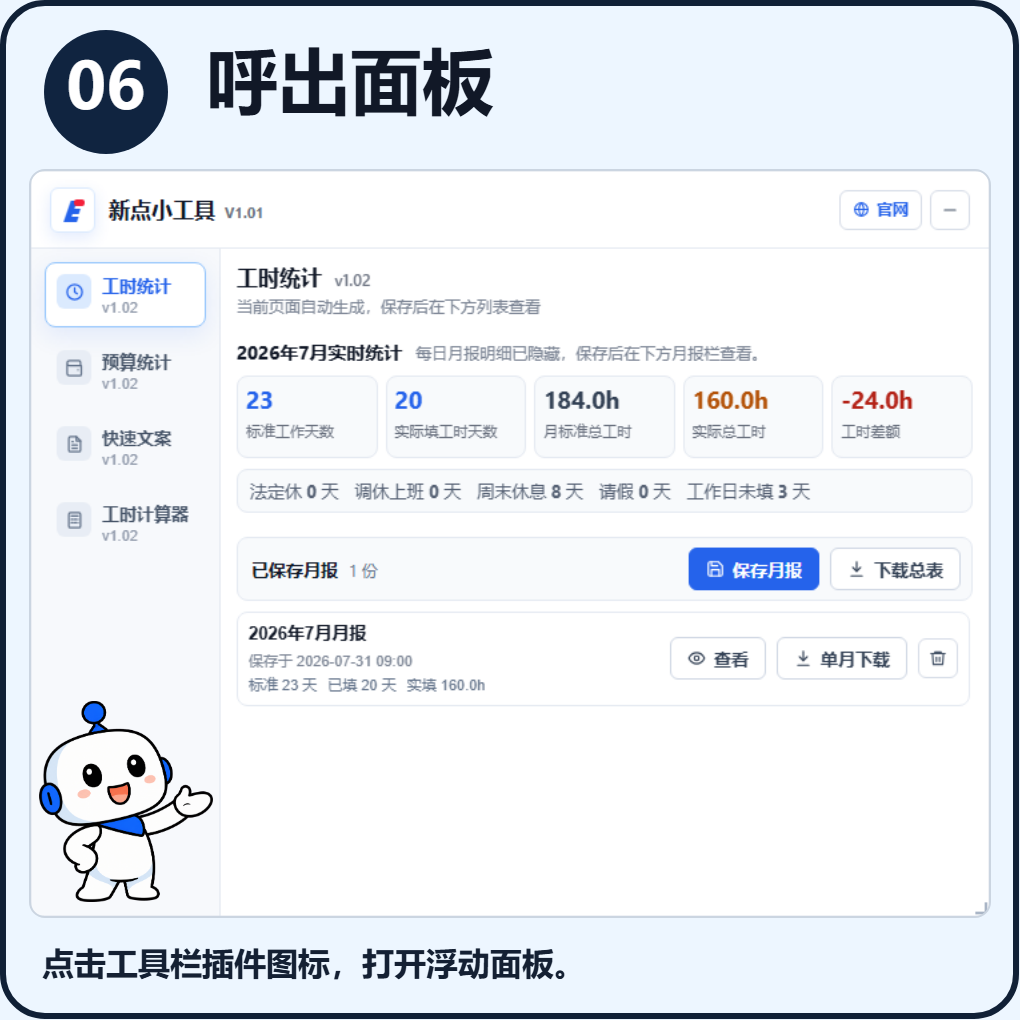
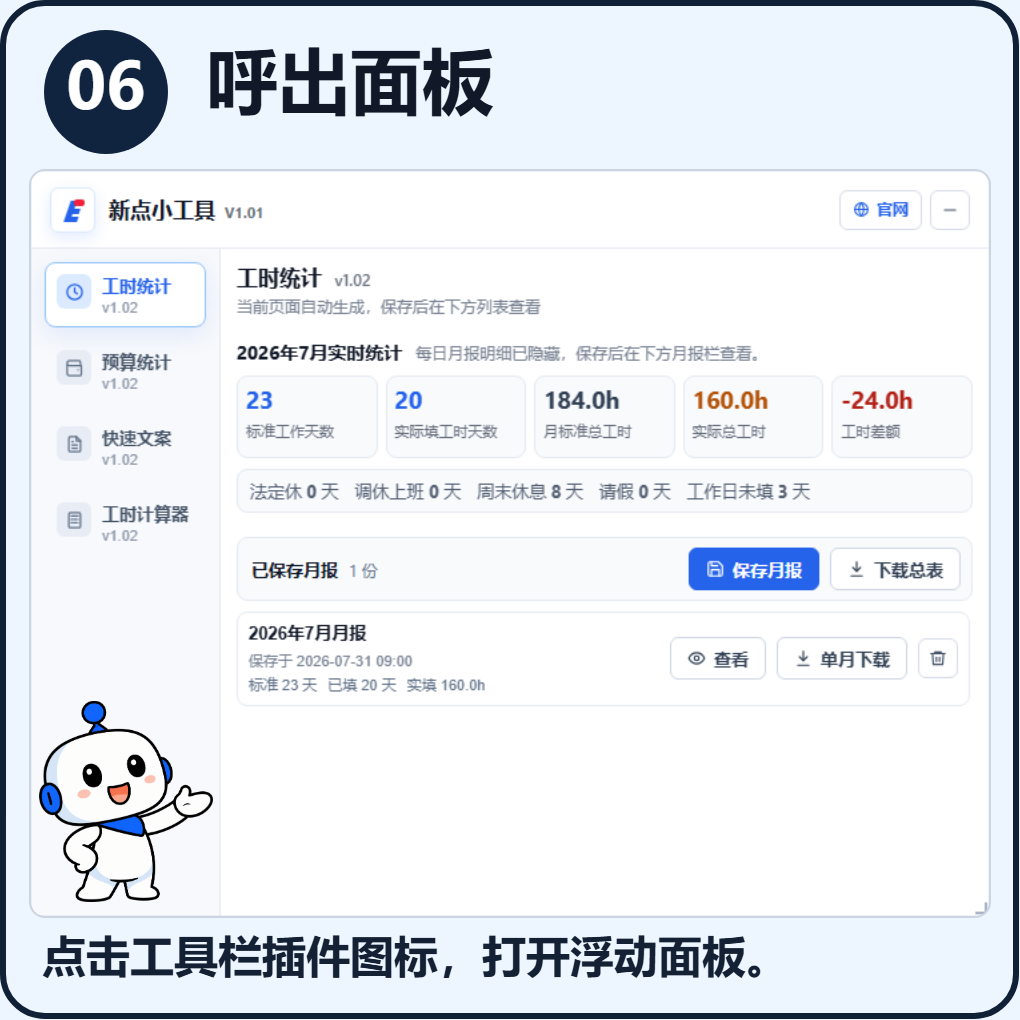
Match tutorial caption size to original guide panels

Changed region(s): [[0.0304, 0.9118, 0.7598, 0.9725]]

diff --git a/index.html b/index.html
@@ -150,25 +150,25 @@
             <img src="assets/comic-guide-05.png?v=20261116-current" alt="05 固定入口：把新点小工具固定到浏览器工具栏。" width="1020" height="1020" loading="lazy">
           </li>
           <li class="comic-card">
-            <img src="assets/comic-guide-06.png?v=20261116-current" alt="06 呼出面板：点击插件图标，浮动面板出现在页面旁。" width="1020" height="1020" loading="lazy">
+            <img src="assets/comic-guide-06.png?v=20261116-caption44" alt="06 呼出面板：点击插件图标，浮动面板出现在页面旁。" width="1020" height="1020" loading="lazy">
           </li>
           <li class="comic-card">
-            <img src="assets/comic-guide-07.png?v=20261116-lens-fix" alt="07 工时统计：查看标准工作天数、实际填工时和差额。" width="1020" height="1020" loading="lazy">
+            <img src="assets/comic-guide-07.png?v=20261116-lens-fix-caption44" alt="07 工时统计：查看标准工作天数、实际填工时和差额。" width="1020" height="1020" loading="lazy">
           </li>
           <li class="comic-card">
-            <img src="assets/comic-guide-08.png?v=20261116-current" alt="08 保存月报：保存月报后，可查看历史并下载表格。" width="1020" height="1020" loading="lazy">
+            <img src="assets/comic-guide-08.png?v=20261116-caption44" alt="08 保存月报：保存月报后，可查看历史并下载表格。" width="1020" height="1020" loading="lazy">
           </li>
           <li class="comic-card">
-            <img src="assets/comic-guide-09.png?v=20261116-current" alt="09 快速文案：管理常用文案，搜索后复制或一键填入。" width="1020" height="1020" loading="lazy">
+            <img src="assets/comic-guide-09.png?v=20261116-caption44" alt="09 快速文案：管理常用文案，搜索后复制或一键填入。" width="1020" height="1020" loading="lazy">
           </li>
           <li class="comic-card">
-            <img src="assets/comic-guide-10.png?v=20261116-current" alt="10 工时计算器：读取设计任务，保存后计算填写进度。" width="1020" height="1020" loading="lazy">
+            <img src="assets/comic-guide-10.png?v=20261116-caption44" alt="10 工时计算器：读取设计任务，保存后计算填写进度。" width="1020" height="1020" loading="lazy">
           </li>
           <li class="comic-card">
-            <img src="assets/comic-guide-11.png?v=20261116-current" alt="11 预算统计：完整月历核对工时，按月汇总已保存预算。" width="1020" height="1020" loading="lazy">
+            <img src="assets/comic-guide-11.png?v=20261116-caption44" alt="11 预算统计：完整月历核对工时，按月汇总已保存预算。" width="1020" height="1020" loading="lazy">
           </li>
           <li class="comic-card">
-            <img src="assets/comic-guide-12.png?v=20261116-current" alt="12 打开官网：点击面板右上角官网按钮，回到插件官网。" width="1020" height="1020" loading="lazy">
+            <img src="assets/comic-guide-12.png?v=20261116-caption44" alt="12 打开官网：点击面板右上角官网按钮，回到插件官网。" width="1020" height="1020" loading="lazy">
           </li>
         </ol>
       </section>
